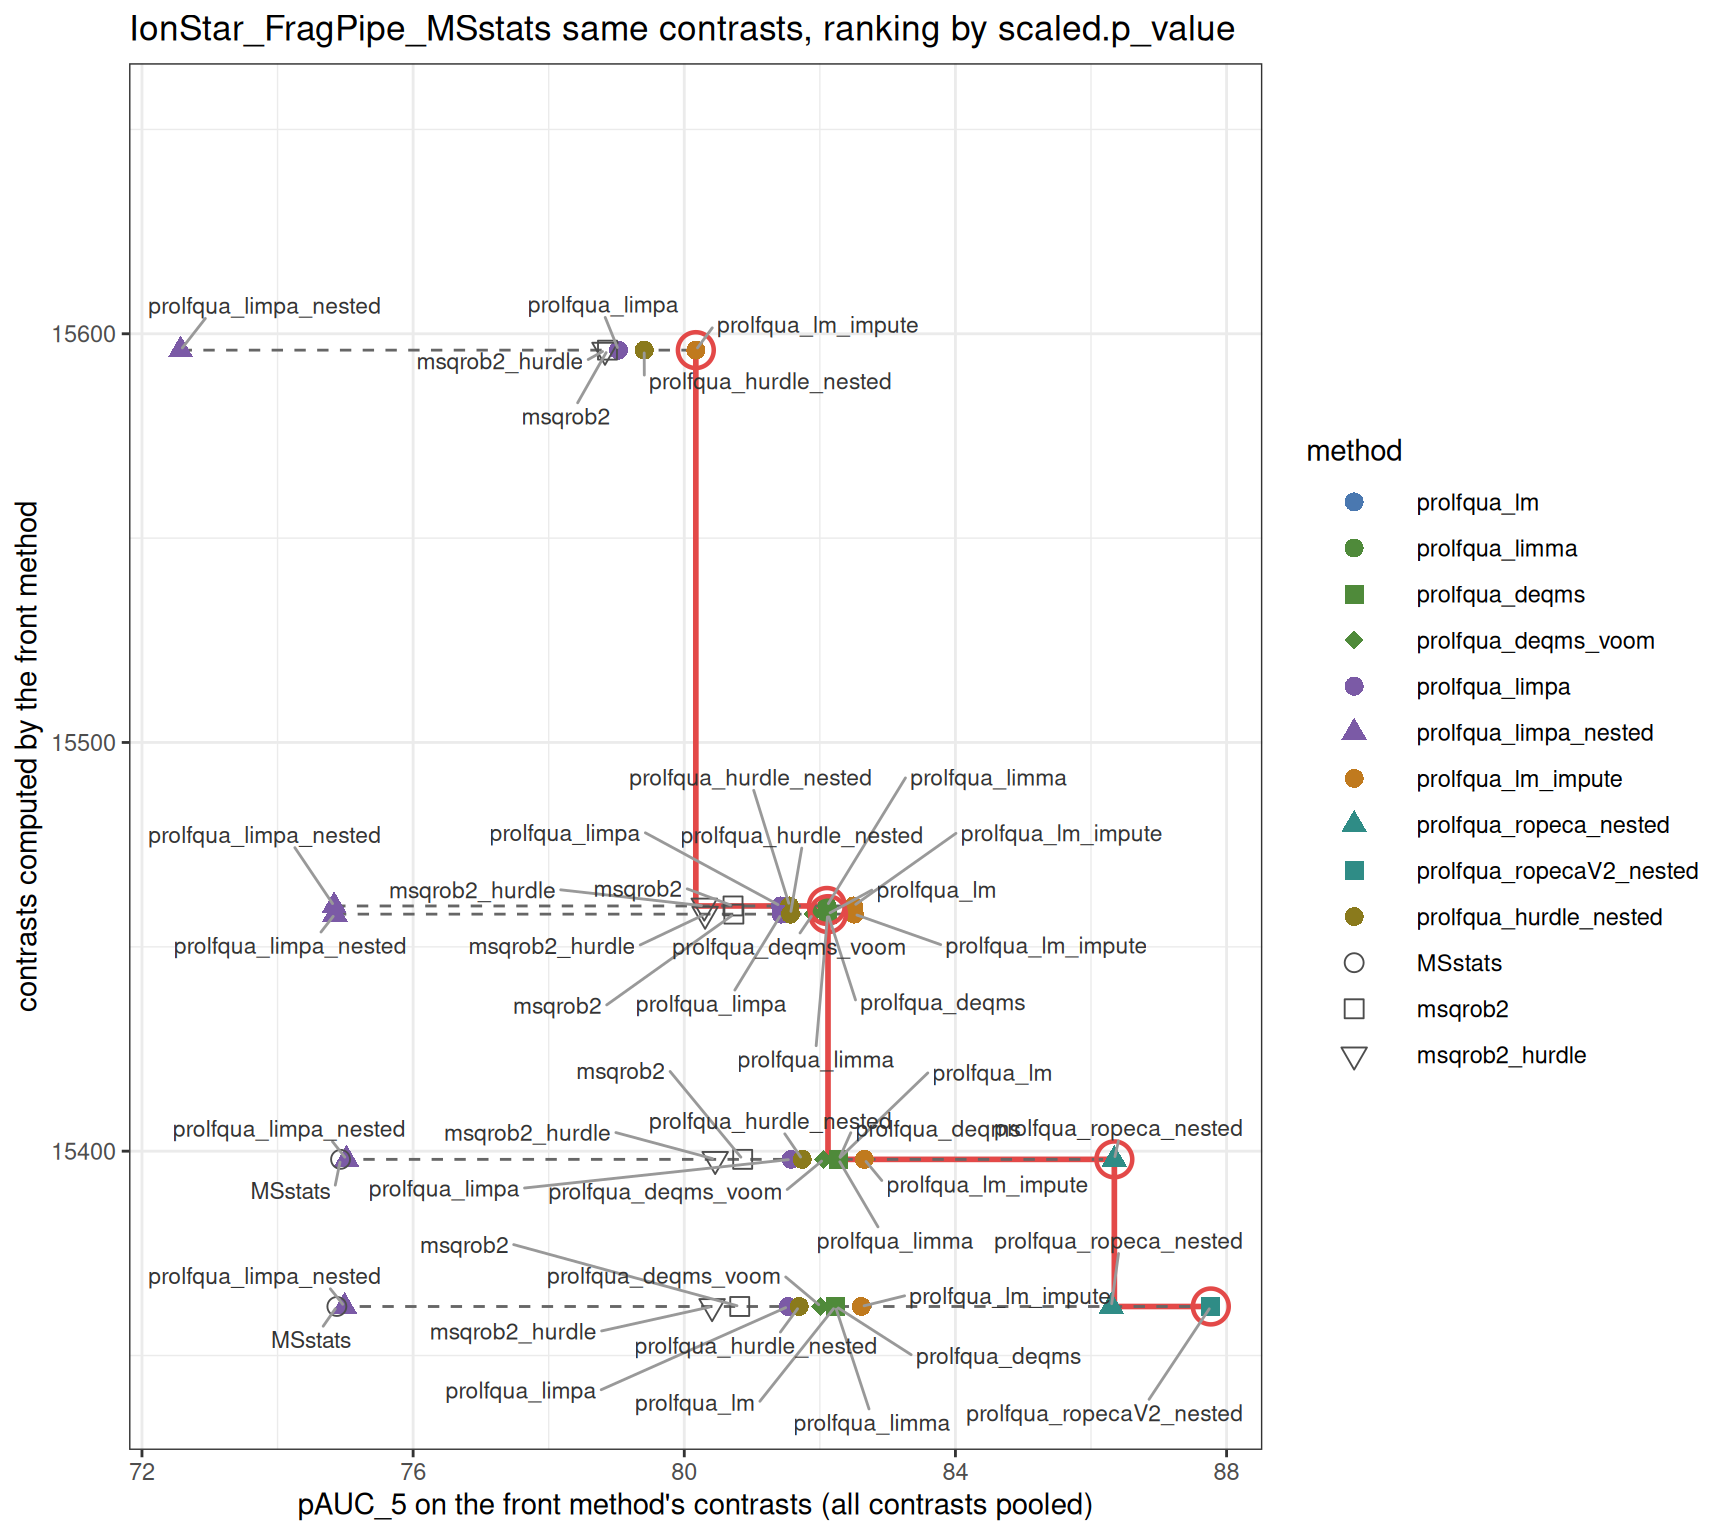
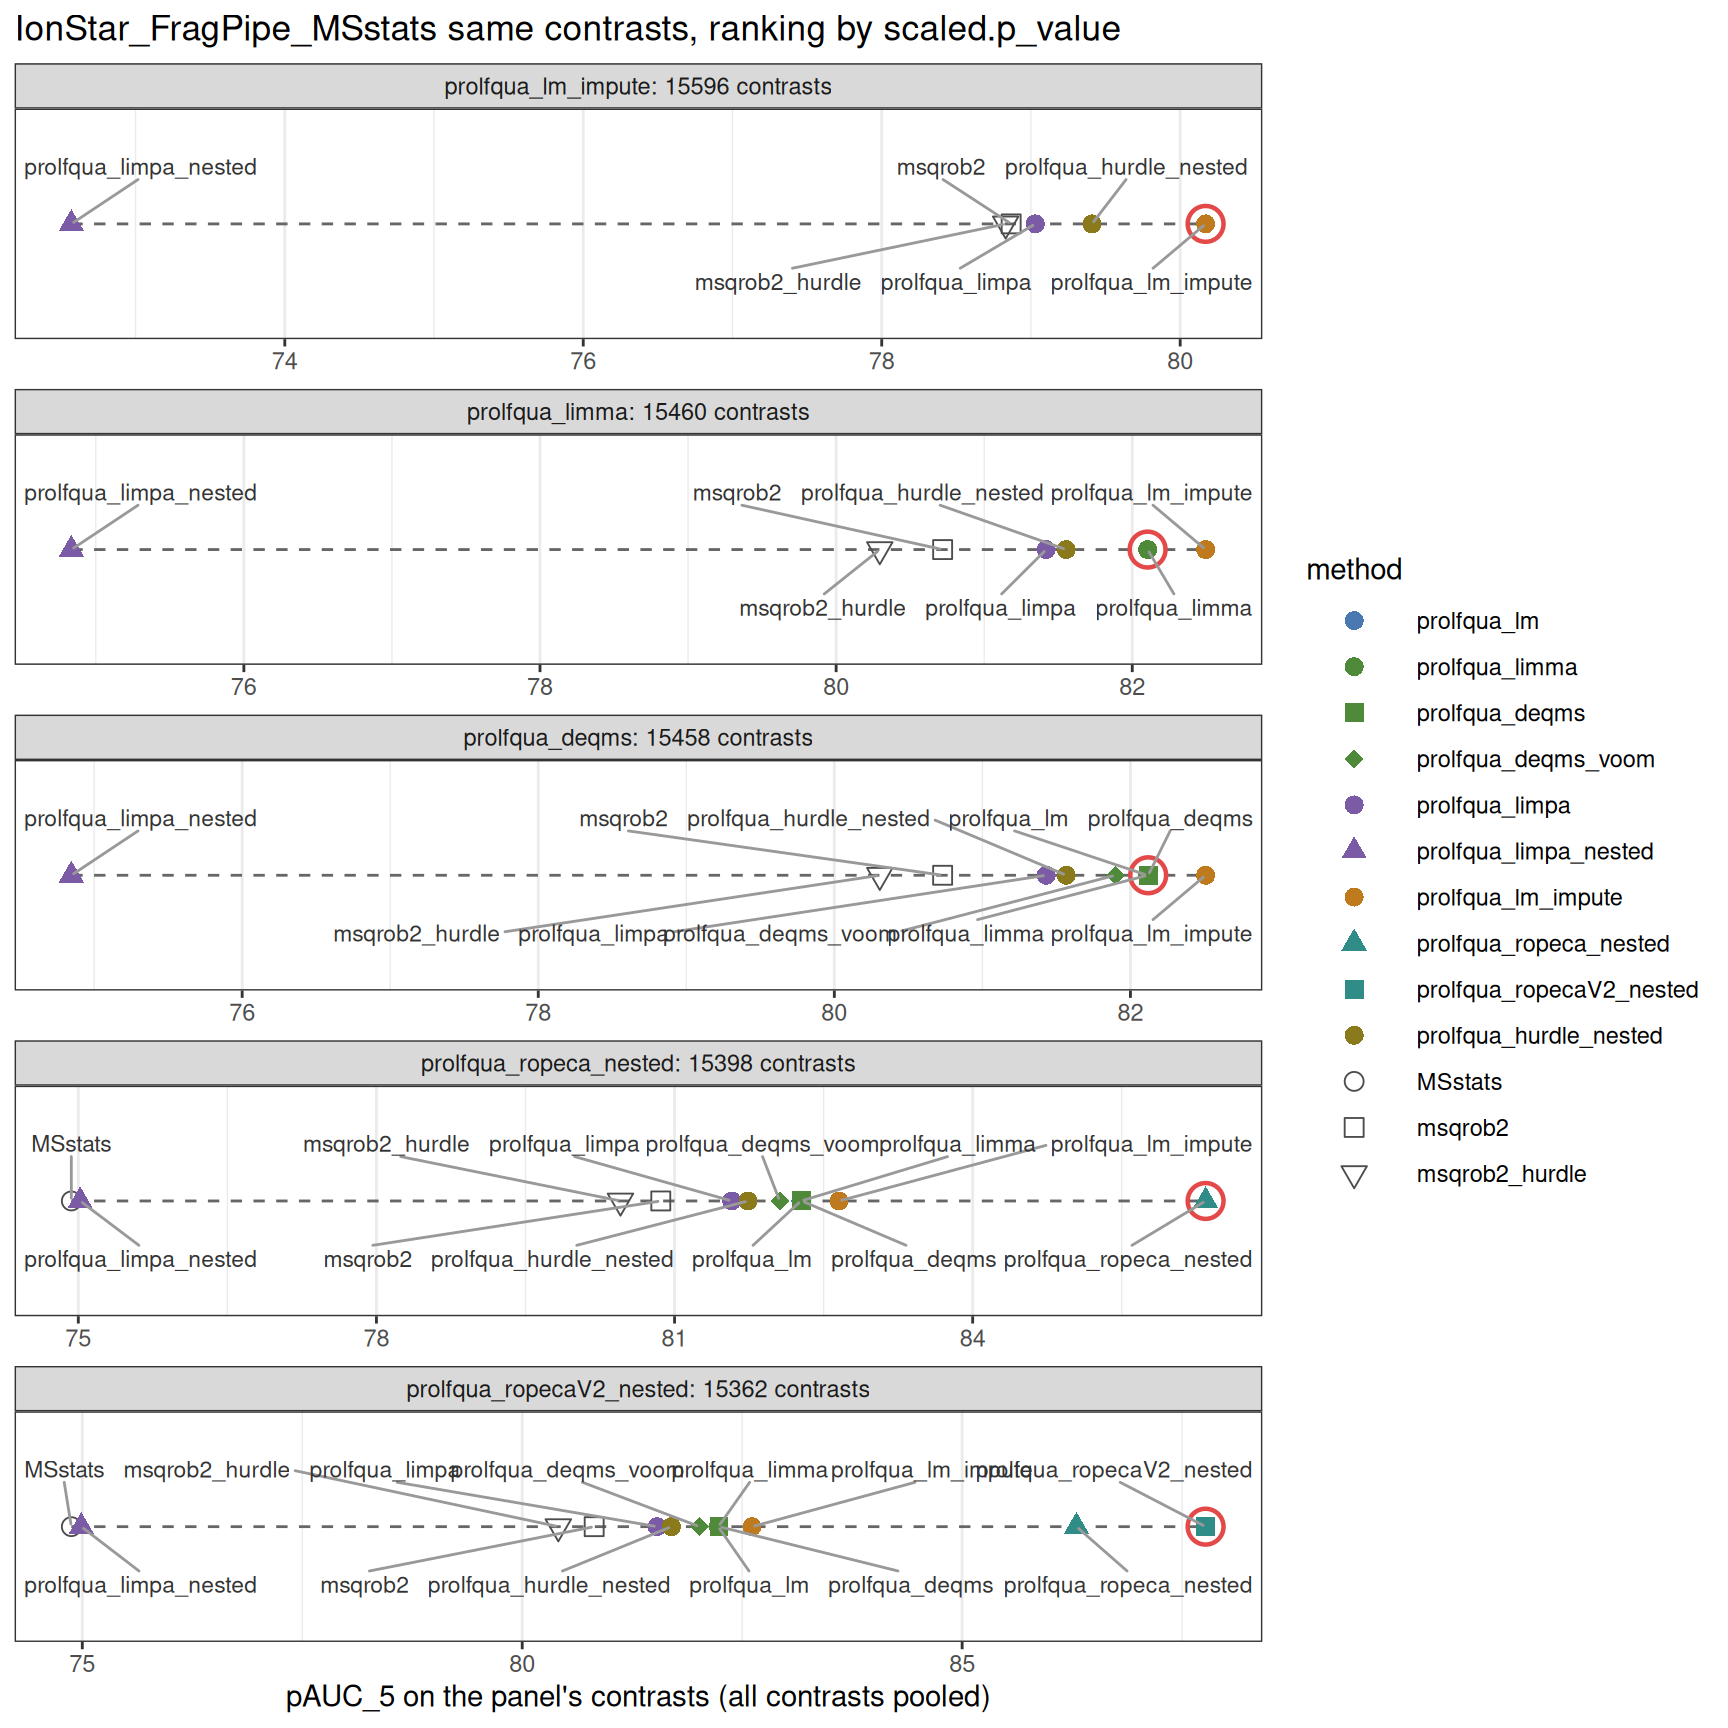
Deploying to gh-pages from @ prolfqua/prolfquabenchmark@4f212d78b46ca554ce97b0e2d7ded89ec4a7faf5 🚀

diff --git a/vignettes/Benchmark_results.html b/vignettes/Benchmark_results.html
@@ -669,7 +669,7 @@ msqrob2 hurdle; Fisher combination of the intensity and detection p-values
 <div class="cell-output-display">
 <div class="quarto-figure quarto-figure-center">
 <figure class="figure"><p><img src="Benchmark_results_files/figure-html/unnamed-chunk-7-1.png" class="img-fluid figure-img" width="864"></p>
-<figcaption>Ranking accuracy on the same contrasts on IonStar_MaxQuant, ranking by scaled p-value. The red staircase is the Pareto front of the figure above. Each dashed line starts at a front method (red circle) and holds the methods that compute every contrast it computes, the same or more; they are scored on the front method’s contrasts only (pAUC_5, all 4 contrasts pooled), so all points of a line have the front method’s number of contrasts computed. A method to the right of the red circle ranks these contrasts better: the front method’s position then comes from computing fewer, easier contrasts rather than from ranking them better.</figcaption></figure>
+<figcaption>Ranking accuracy on the same contrasts on IonStar_MaxQuant, ranking by scaled p-value. Each panel is one set of contrasts: those computed by a method on the Pareto front of the figure above (red circle), with their number in the panel title. On the dashed line are the methods that compute all these contrasts, the same or more, scored on these contrasts only (pAUC_5, all 4 contrasts pooled); each panel has its own x axis. A method to the right of the red circle ranks these contrasts better: the front method’s position then comes from computing fewer, easier contrasts rather than from ranking them better.</figcaption></figure>
 </div>
 </div>
 </div>
@@ -1124,7 +1124,7 @@ protein
 <div class="cell-output-display">
 <div class="quarto-figure quarto-figure-center">
 <figure class="figure"><p><img src="Benchmark_results_files/figure-html/unnamed-chunk-11-1.png" class="img-fluid figure-img" width="864"></p>
-<figcaption>Ranking accuracy on the same contrasts on IonStar_MaxQuant_protein, ranking by scaled p-value. The red staircase is the Pareto front of the figure above. Each dashed line starts at a front method (red circle) and holds the methods that compute every contrast it computes, the same or more; they are scored on the front method’s contrasts only (pAUC_5, all 4 contrasts pooled), so all points of a line have the front method’s number of contrasts computed. A method to the right of the red circle ranks these contrasts better: the front method’s position then comes from computing fewer, easier contrasts rather than from ranking them better.</figcaption></figure>
+<figcaption>Ranking accuracy on the same contrasts on IonStar_MaxQuant_protein, ranking by scaled p-value. Each panel is one set of contrasts: those computed by a method on the Pareto front of the figure above (red circle), with their number in the panel title. On the dashed line are the methods that compute all these contrasts, the same or more, scored on these contrasts only (pAUC_5, all 4 contrasts pooled); each panel has its own x axis. A method to the right of the red circle ranks these contrasts better: the front method’s position then comes from computing fewer, easier contrasts rather than from ranking them better.</figcaption></figure>
 </div>
 </div>
 </div>
@@ -1435,7 +1435,7 @@ protein
 <div class="cell-output-display">
 <div class="quarto-figure quarto-figure-center">
 <figure class="figure"><p><img src="Benchmark_results_files/figure-html/unnamed-chunk-15-1.png" class="img-fluid figure-img" width="864"></p>
-<figcaption>Ranking accuracy on the same contrasts on IonStar_FragPipe_MSstats, ranking by scaled p-value. The red staircase is the Pareto front of the figure above. Each dashed line starts at a front method (red circle) and holds the methods that compute every contrast it computes, the same or more; they are scored on the front method’s contrasts only (pAUC_5, all 4 contrasts pooled), so all points of a line have the front method’s number of contrasts computed. A method to the right of the red circle ranks these contrasts better: the front method’s position then comes from computing fewer, easier contrasts rather than from ranking them better.</figcaption></figure>
+<figcaption>Ranking accuracy on the same contrasts on IonStar_FragPipe_MSstats, ranking by scaled p-value. Each panel is one set of contrasts: those computed by a method on the Pareto front of the figure above (red circle), with their number in the panel title. On the dashed line are the methods that compute all these contrasts, the same or more, scored on these contrasts only (pAUC_5, all 4 contrasts pooled); each panel has its own x axis. A method to the right of the red circle ranks these contrasts better: the front method’s position then comes from computing fewer, easier contrasts rather than from ranking them better.</figcaption></figure>
 </div>
 </div>
 </div>
@@ -1918,7 +1918,7 @@ peptide
 <div class="cell-output-display">
 <div class="quarto-figure quarto-figure-center">
 <figure class="figure"><p><img src="Benchmark_results_files/figure-html/unnamed-chunk-19-1.png" class="img-fluid figure-img" width="864"></p>
-<figcaption>Ranking accuracy on the same contrasts on IonStar_FragPipe_protein, ranking by scaled p-value. The red staircase is the Pareto front of the figure above. Each dashed line starts at a front method (red circle) and holds the methods that compute every contrast it computes, the same or more; they are scored on the front method’s contrasts only (pAUC_5, all 4 contrasts pooled), so all points of a line have the front method’s number of contrasts computed. A method to the right of the red circle ranks these contrasts better: the front method’s position then comes from computing fewer, easier contrasts rather than from ranking them better.</figcaption></figure>
+<figcaption>Ranking accuracy on the same contrasts on IonStar_FragPipe_protein, ranking by scaled p-value. Each panel is one set of contrasts: those computed by a method on the Pareto front of the figure above (red circle), with their number in the panel title. On the dashed line are the methods that compute all these contrasts, the same or more, scored on these contrasts only (pAUC_5, all 4 contrasts pooled); each panel has its own x axis. A method to the right of the red circle ranks these contrasts better: the front method’s position then comes from computing fewer, easier contrasts rather than from ranking them better.</figcaption></figure>
 </div>
 </div>
 </div>
@@ -2227,7 +2227,7 @@ protein
 <div class="cell-output-display">
 <div class="quarto-figure quarto-figure-center">
 <figure class="figure"><p><img src="Benchmark_results_files/figure-html/unnamed-chunk-23-1.png" class="img-fluid figure-img" width="864"></p>
-<figcaption>Ranking accuracy on the same contrasts on CPTAC_MaxQuant, ranking by scaled p-value. The red staircase is the Pareto front of the figure above. Each dashed line starts at a front method (red circle) and holds the methods that compute every contrast it computes, the same or more; they are scored on the front method’s contrasts only (pAUC_5, one contrast), so all points of a line have the front method’s number of contrasts computed. A method to the right of the red circle ranks these contrasts better: the front method’s position then comes from computing fewer, easier contrasts rather than from ranking them better.</figcaption></figure>
+<figcaption>Ranking accuracy on the same contrasts on CPTAC_MaxQuant, ranking by scaled p-value. Each panel is one set of contrasts: those computed by a method on the Pareto front of the figure above (red circle), with their number in the panel title. On the dashed line are the methods that compute all these contrasts, the same or more, scored on these contrasts only (pAUC_5, one contrast); each panel has its own x axis. A method to the right of the red circle ranks these contrasts better: the front method’s position then comes from computing fewer, easier contrasts rather than from ranking them better.</figcaption></figure>
 </div>
 </div>
 </div>

diff --git a/NEWS.html b/NEWS.html
@@ -287,7 +287,7 @@ ul.task-list li input[type="checkbox"] {
 <h1>prolfquabenchmark 0.3.4</h1>
 <ul>
 <li><p><code>Benchmark_results</code> plots pAUC_5 against the number of contrasts computed (protein and contrast pairs with a result, all contrasts together) instead of the proteins tested averaged over the contrasts; the Pareto front is the same. The same-pairs panels and <code>benchmark_same_pairs.tsv</code> give the front method’s contrasts computed (column <code>contrasts</code>).</p></li>
-<li><p>Same pairs: a method may be on the Pareto front because it tests fewer, easier proteins. The new pipeline step <code>score_same_pairs</code> scores every method that tests all the pairs of a front method’s protein and contrast pairs on exactly these pairs (<code>inst/extdata/benchmark_same_pairs.tsv</code>), and <code>Benchmark_results</code> shows them per dataset in a figure after the Pareto front: one dashed line per front method at its number of contrasts computed, with the methods scored on its contrasts. New exported functions <code>same_pairs_scores()</code>, <code>score_on_pairs()</code> and <code>pareto_optimal()</code>; the pairs come from prolfqua’s <code>ContrastsComparison</code>, so prolfquabenchmark now requires prolfqua 1.9.8.</p></li>
+<li><p>Same pairs: a method may be on the Pareto front because it tests fewer, easier proteins. The new pipeline step <code>score_same_pairs</code> scores every method that tests all the pairs of a front method’s protein and contrast pairs on exactly these pairs (<code>inst/extdata/benchmark_same_pairs.tsv</code>), and <code>Benchmark_results</code> shows them per dataset in a figure after the Pareto front: one panel per front method’s set of contrasts, each with its own x axis, the methods scored on these contrasts on a dashed line. New exported functions <code>same_pairs_scores()</code>, <code>score_on_pairs()</code> and <code>pareto_optimal()</code>; the pairs come from prolfqua’s <code>ContrastsComparison</code>, so prolfquabenchmark now requires prolfqua 1.9.8.</p></li>
 <li><p>Benchmark rerun with prolfqua 1.9.7 and its scores added to the score history. prolfqua 1.9.6 computes each protein’s limma contrasts from its own observed samples: <code>prolfqua_limma</code>, <code>prolfqua_deqms_voom</code>, <code>prolfqua_limpa</code> and <code>prolfqua_limpa_nested</code> score higher (pAUC_5 on IonStar MaxQuant: limma 63.9 to 69.2, deqms_voom 57.9 to 64.5, limpa 60.0 to 67.0), and the vooma methods test more proteins; the other methods are unchanged.</p></li>
 <li><p>The documentation site is built with altdoc (<code>make site</code>, GitHub workflow <code>altdoc.yml</code>) instead of pkgdown; the vignettes are at <code>https://prolfqua.github.io/prolfquabenchmark/vignettes/&lt;name&gt;.html</code> (formerly <code>articles/</code>). The vignettes read the benchmark tables of the installed package, so run <code>make install</code> after <code>make benchmark</code> before rendering them.</p></li>
 <li><p><code>Benchmark_results</code> lists the methods once each (16 rows instead of one per dataset and method), with the number of datasets they ran on; the per-dataset rows and fit times are in the linked <code>benchmark_methods.tsv</code>.</p></li>
